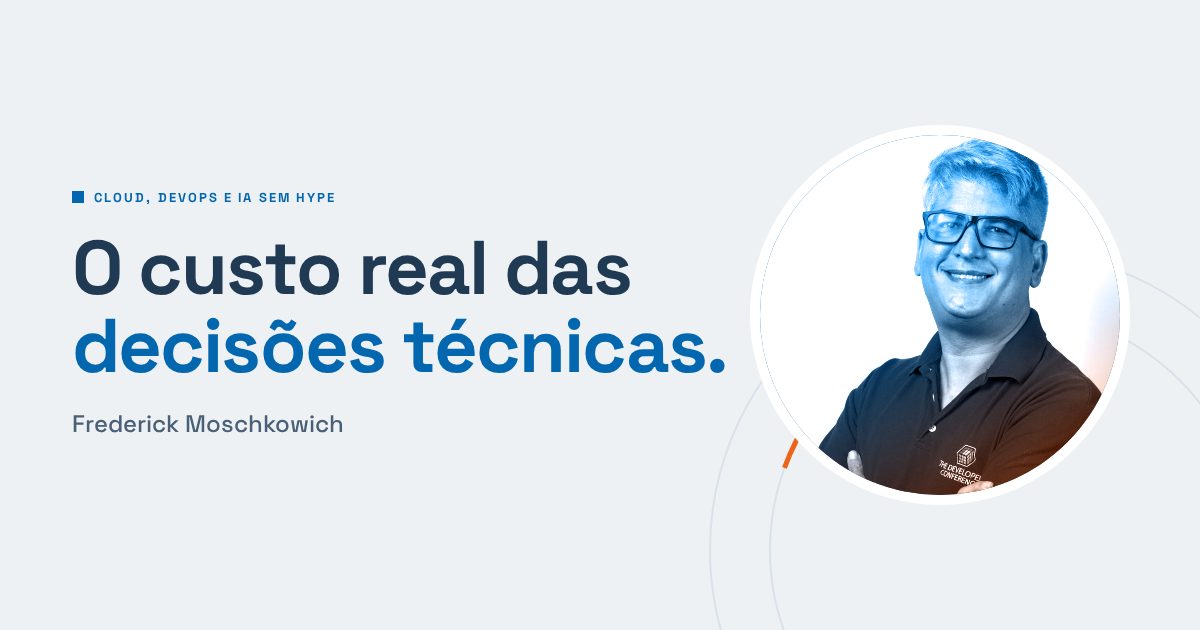
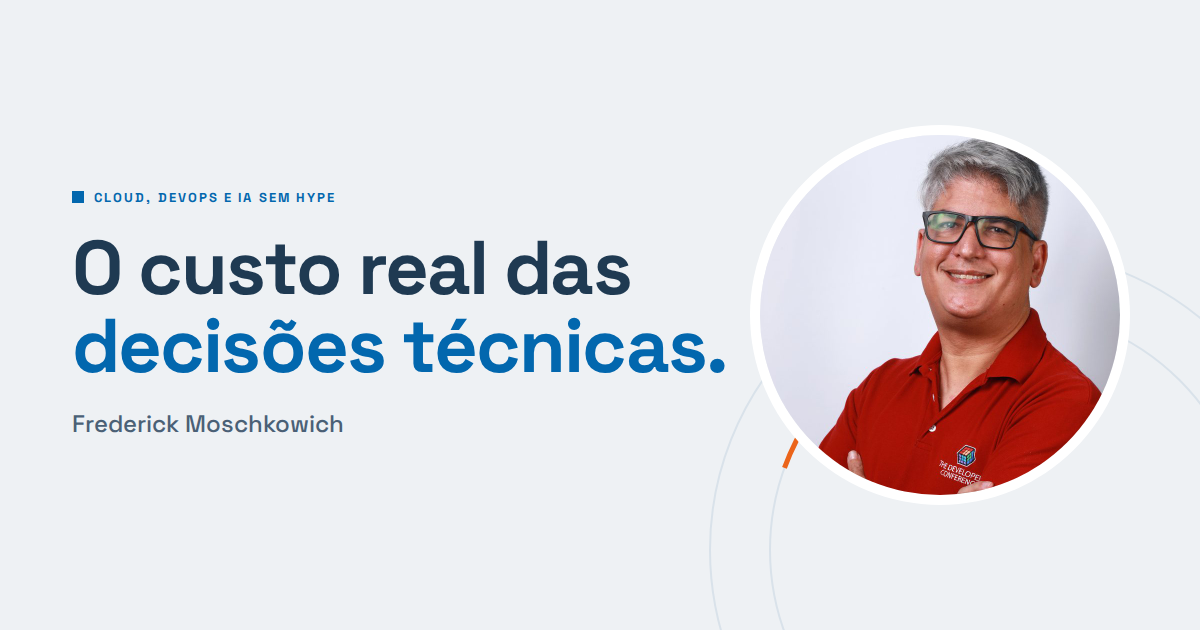
Foto original, sem filtro duotone (home, sobre e imagem de compartilhamento)
Claude-Session: https://claude.ai/code/session_01TEi6szVjQqKSefbCMh9UN2

Changed region(s): [[0.6167, 0.2111, 0.9558, 0.7841], [0.0617, 0.6635, 0.2775, 0.6937], [0.0925, 0.3016, 0.2775, 0.3317]]

diff --git a/css/site.css b/css/site.css
@@ -72,9 +72,8 @@ h2{font-size:38px}
 .hero h1{font-size:68px;line-height:1.02;letter-spacing:-.025em;margin:22px 0 24px}
 .hero h1 em{font-style:normal;color:var(--azul)}
 .ctas{display:flex;align-items:center;gap:28px;margin-top:36px}
-.photo{justify-self:end;width:340px;height:340px;border-radius:50%;overflow:hidden;position:relative;box-shadow:0 0 0 10px var(--branco);background:linear-gradient(150deg,var(--azul) 35%,var(--laranja) 115%)}
-/* duotone azul + laranja (regra do tipo Relato no manual) */
-.photo img{width:100%;height:100%;object-fit:cover;filter:grayscale(1) contrast(1.1) brightness(1.25);mix-blend-mode:luminosity}
+.photo{justify-self:end;width:340px;height:340px;border-radius:50%;overflow:hidden;position:relative;box-shadow:0 0 0 10px var(--branco);background:var(--cinza)}
+.photo img{width:100%;height:100%;object-fit:cover}
 
 /* ---------- seções ---------- */
 .block{padding:84px 0}
